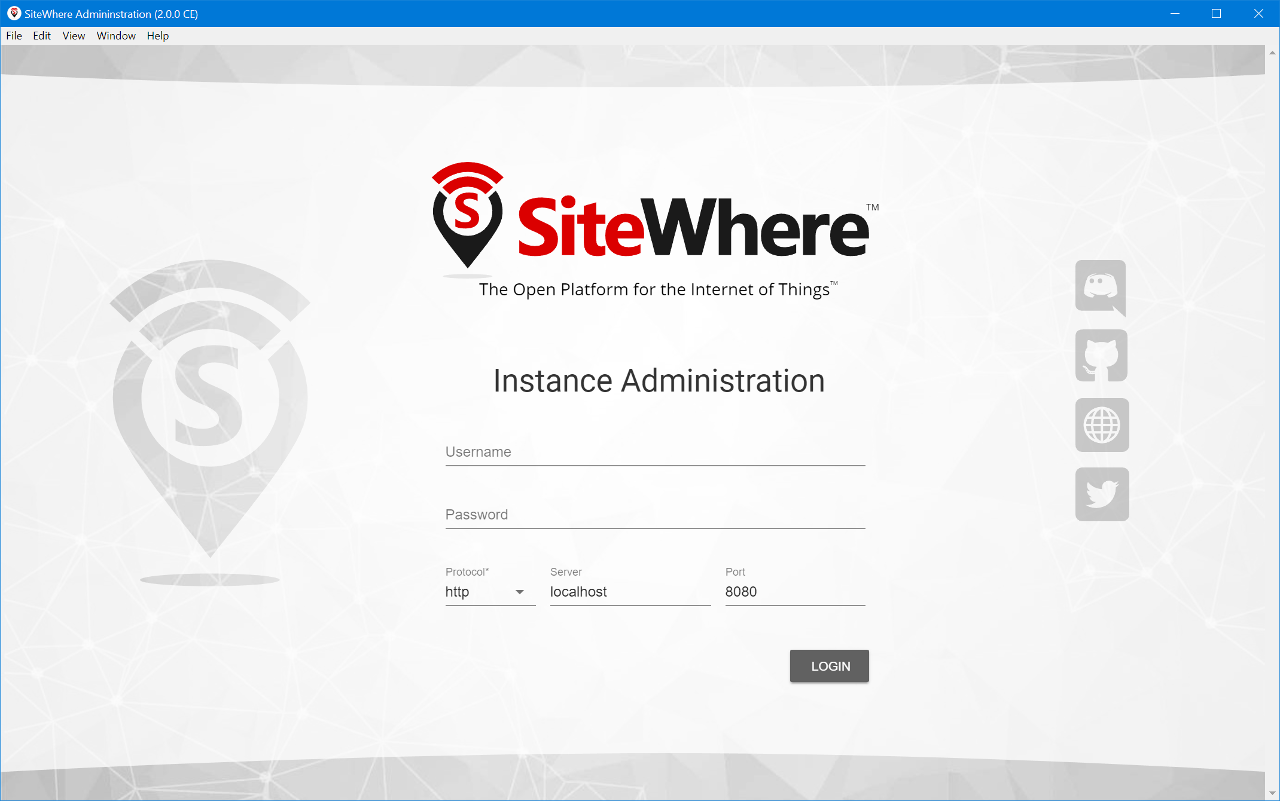
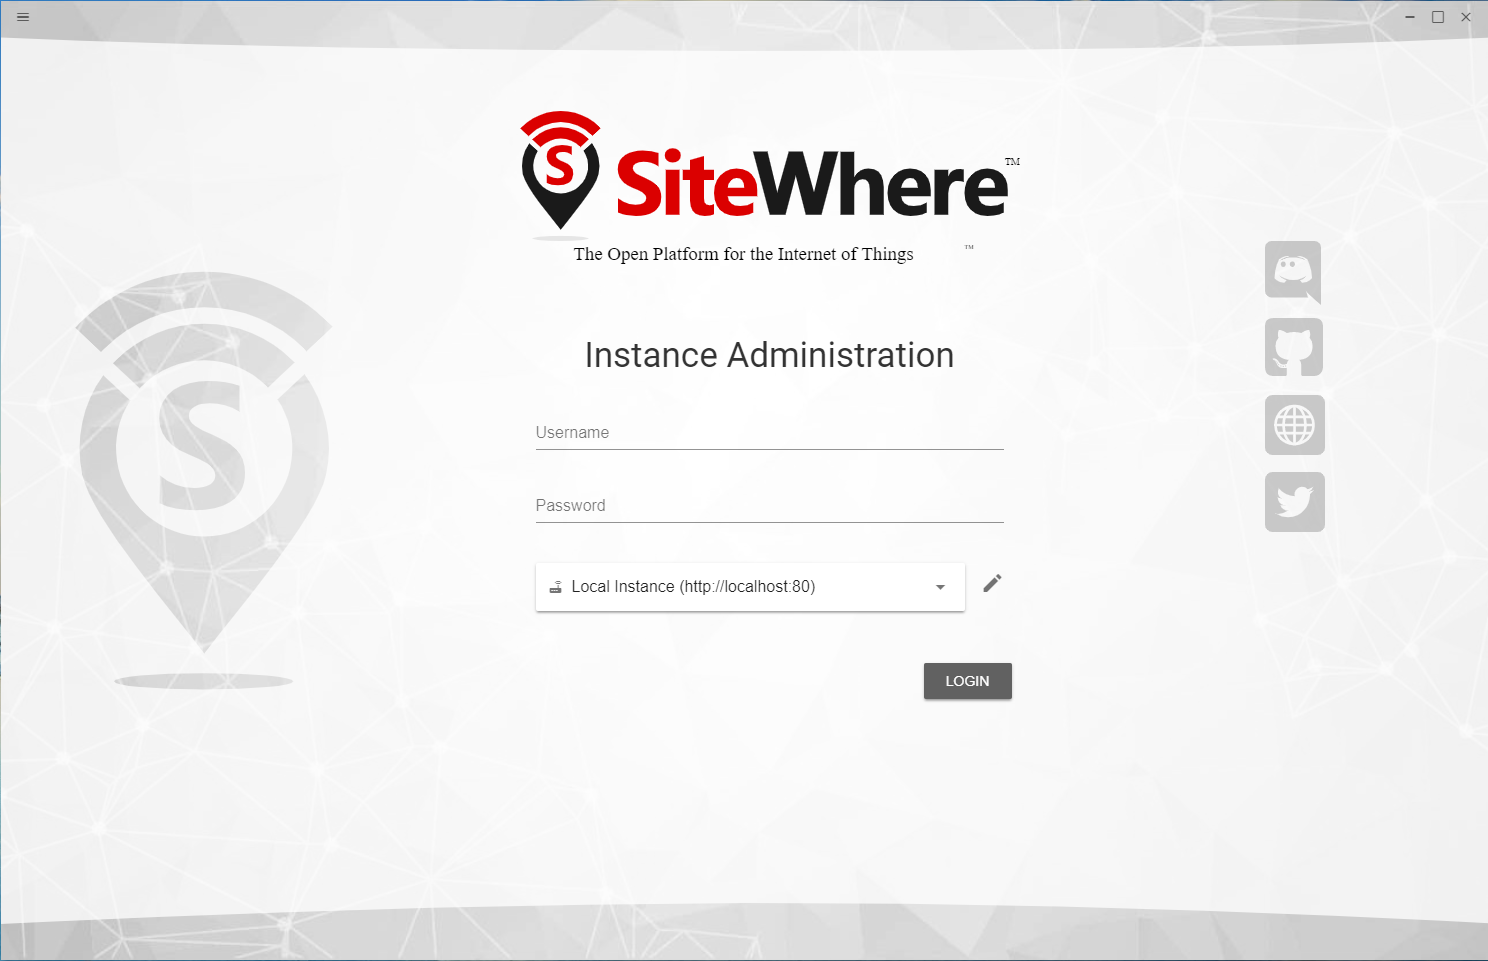
update add connection-settings es en

diff --git a/docs/es/guide/administration/README.md b/docs/es/guide/administration/README.md
@@ -36,3 +36,13 @@ predeterminados, un usuario con derechos administrativos estará disponible con 
 | `admin`  | `password` |
 
 <InlineImage src="/images/guide/administration/login.png" caption="Administrative Login"/>
+
+## Configuración de Conexiones
+
+Desde la página de login podemos editar la configuración de las conexiones a instancias de SiteWhere haciendo clic 
+en en el lápiz a la derecha de la conexión seleccionada. Una vez abierto el popup `Edit Remote Connection Settings` 
+en la parte superior se listan las conexiones disponibles, las cuales se pueden borrar o seleccionar la conexión 
+por defecto. En la parte inferior es posible agregar una nueva conexión indicando el nombre de la misma, como también 
+protocolo HTTP, nombre del servidor y puerto, para agregar presionar el botón `+`. 
+
+<InlineImage src="/images/guide/administration/connection-settings.png" caption="Connection Settings" />

diff --git a/docs/guide/administration/README.md b/docs/guide/administration/README.md
@@ -39,3 +39,13 @@ following credentials:
 | `admin`  | `password` |
 
 <InlineImage src="/images/guide/administration/login.png" caption="Administrative Login"/>
+
+## Connection Settings
+
+From the login we can edit the configuration of the connections to instances of SiteWhere by 
+clicking in the pencil to the right of the selected connection. Once the `Edit Remote Connection Settings` 
+is open, the available connections are listed at the top, which can be `deleted` or select 
+the `default connection`. At the bottom it is possible to `add` a new connection indicating 
+its name, as well as HTTP protocol, server name and port, and finally to add it by clicking `+`.
+
+<InlineImage src="/images/guide/administration/connection-settings.png" caption="Connection Settings" />

diff --git a/docs/es/guide/administration/global/README.md b/docs/es/guide/administration/global/README.md
@@ -9,7 +9,7 @@ agregar / configurar inquilinos y configurar microservicios globales.
 
 <InlineImage src="/images/guide/administration/system-administration.png" caption="System Administration"/>
 
-## Tenant Management
+## Gestión de Inquilinos
 
 SiteWhere es un sistema multi-inquilino, lo que significa que múltiples aplicaciones aisladas pueden usar la misma 
 instancia de SiteWhere simultáneamente. A diferencia de muchas otras plataformas donde varios inquilinos 
